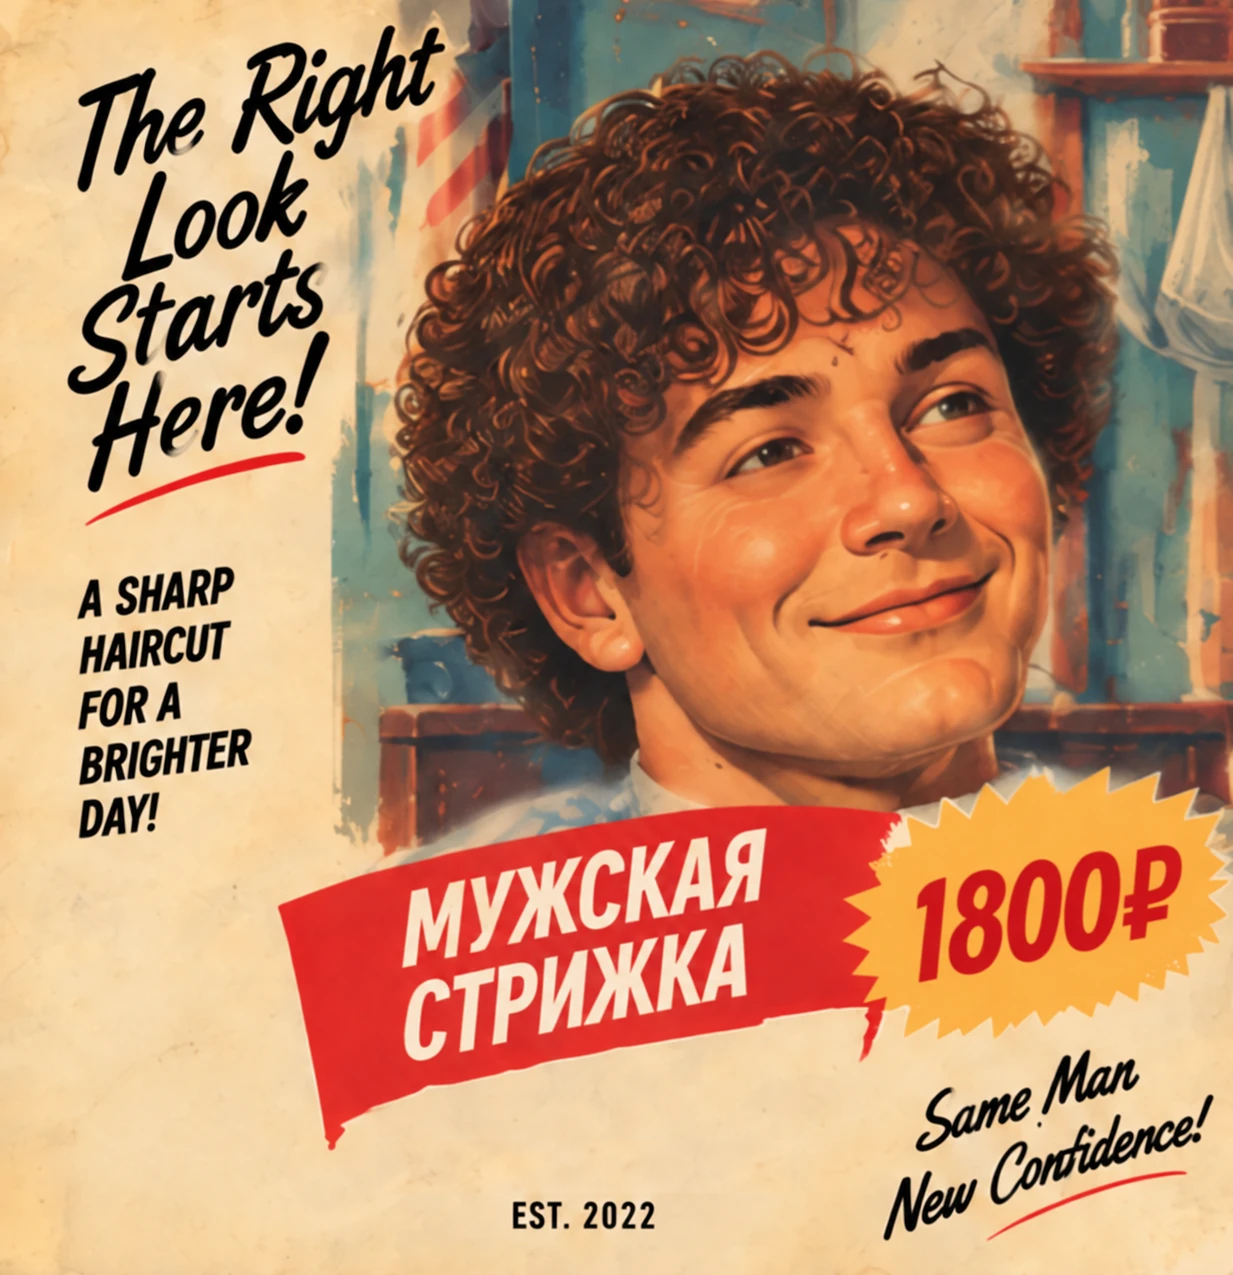
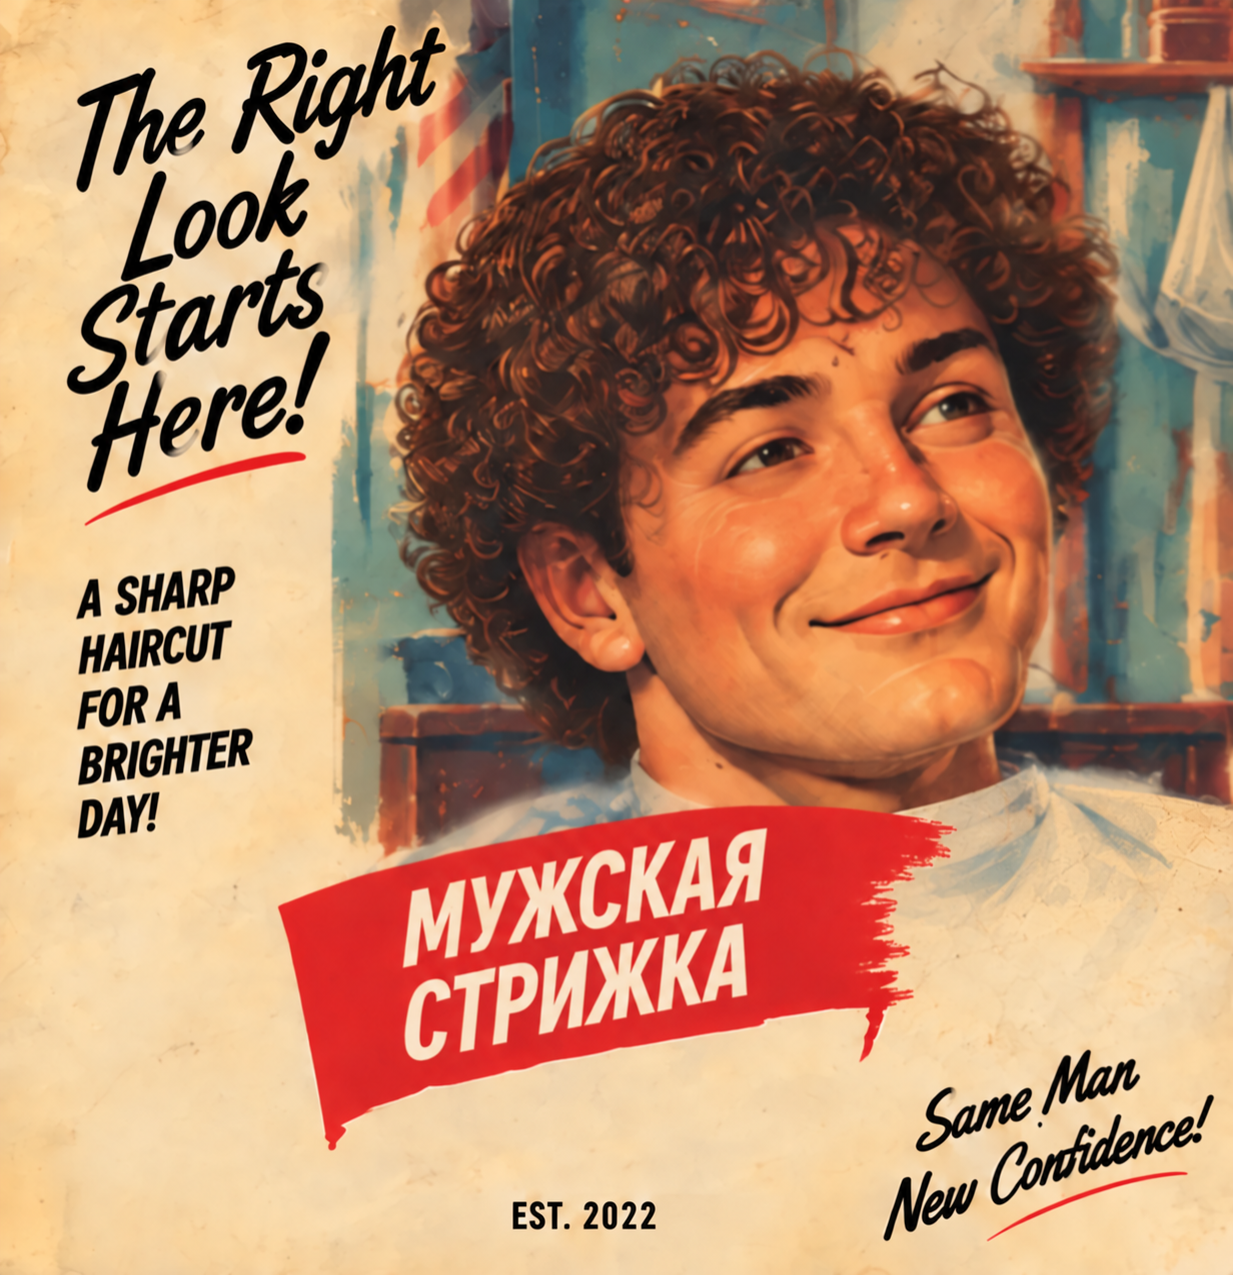
Remove service prices and refresh poster images

diff --git a/modules/offers/services.ts b/modules/offers/services.ts
@@ -1,3 +1,9 @@
+import haircutPoster from '@/public/brand51/client/haircut-framed.webp'
+import comfortHaircutPoster from '@/public/brand51/client/comfort-framed.webp'
+import businessHaircutPoster from '@/public/brand51/client/business-framed.webp'
+import kidsHaircutPoster from '@/public/brand51/client/kids.webp'
+import shavePoster from '@/public/brand51/client/shave-framed.webp'
+import waxPoster from '@/public/brand51/client/wax-framed.webp'
 import type { ServiceOffer } from './types'
 
 export const services: readonly ServiceOffer[] = [
@@ -7,7 +13,7 @@ export const services: readonly ServiceOffer[] = [
 		priceRub: 1800,
 		description: 'Мужская стрижка в «Штате 51».',
 		poster: {
-			src: '/brand51/client/haircut-framed.webp',
+			src: haircutPoster,
 			width: 1233,
 			height: 1275,
 			alt: 'Ретроафиша мужской стрижки',
@@ -20,7 +26,7 @@ export const services: readonly ServiceOffer[] = [
 		description:
 			'Мужская стрижка, удаление воском волос из носа и межбровья. Бесплатная корректировка стрижки в течение 14 дней.',
 		poster: {
-			src: '/brand51/client/comfort-framed.webp',
+			src: comfortHaircutPoster,
 			width: 1224,
 			height: 1285,
 			alt: 'Ретроафиша мужской стрижки «Комфорт»',
@@ -32,7 +38,7 @@ export const services: readonly ServiceOffer[] = [
 		priceRub: 3200,
 		description: 'Мужская стрижка и антивозрастной уход EGIA.',
 		poster: {
-			src: '/brand51/client/business-framed.webp',
+			src: businessHaircutPoster,
 			width: 1254,
 			height: 1254,
 			alt: 'Ретроафиша мужской стрижки «Бизнес» с уходом EGIA',
@@ -44,7 +50,7 @@ export const services: readonly ServiceOffer[] = [
 		priceRub: 1400,
 		description: 'Для детей до 14 лет.',
 		poster: {
-			src: '/brand51/client/kids.webp',
+			src: kidsHaircutPoster,
 			width: 1254,
 			height: 1254,
 			alt: 'Ретроафиша детской стрижки до 14 лет',
@@ -56,7 +62,7 @@ export const services: readonly ServiceOffer[] = [
 		priceRub: 1400,
 		description: 'Бритьё головы или лица — на ваш выбор.',
 		poster: {
-			src: '/brand51/client/shave-framed.webp',
+			src: shavePoster,
 			width: 1240,
 			height: 1269,
 			alt: 'Ретроафиша бритья головы или лица',
@@ -68,7 +74,7 @@ export const services: readonly ServiceOffer[] = [
 		priceRub: 300,
 		description: 'Удаление волос из носа и межбровья.',
 		poster: {
-			src: '/brand51/client/wax-framed.webp',
+			src: waxPoster,
 			width: 1254,
 			height: 1254,
 			alt: 'Ретроафиша удаления волос воском',

diff --git a/components/shared/telegram.tsx b/components/shared/telegram.tsx
@@ -1,5 +1,6 @@
 import Link from 'next/link'
 import Image from 'next/image'
+import telegramIllustration from '@/public/brand51/generated/telegram-illustration.webp'
 import { ExternalLink, Send } from 'lucide-react'
 import { Badge } from '@/components/ui/badge'
 import { Button } from '@/components/ui/button'
@@ -30,8 +31,8 @@ export function Telegram({ className }: Props) {
 				</Badge>
 				<div className={styles.artwork}>
 					<Image
-						src='/brand51/generated/telegram-illustration.webp'
-						alt='Газетчик у барбершопа держит газету «Штат 51 — новости».'
+						src={telegramIllustration}
+						alt='Газетчик у барбершопа держит газету «Штат 51 — новости», а под короной на вывеске написано «СИЛА».'
 						width={1254}
 						height={1254}
 						sizes='(min-width: 1152px) 280px, (min-width: 768px) 25vw, (min-width: 480px) 420px, calc(100vw - 48px)'

diff --git a/modules/offers/promotions.ts b/modules/offers/promotions.ts
@@ -1,3 +1,4 @@
+import firstVisitPoster from '@/public/brand51/client/first-visit.webp'
 import type { PromotionOffer } from './types'
 import { promotionTopFrames } from './poster-frames'
 
@@ -8,7 +9,7 @@ export const promotions: readonly PromotionOffer[] = [
 		discountPercent: 20,
 		conditions: ['На любую услугу из нашего прайса.', 'Только для новых клиентов.'],
 		poster: {
-			src: '/brand51/client/first-visit.webp', width: 1254, height: 1254,
+			src: firstVisitPoster, width: 1254, height: 1254,
 			alt: 'Первый визит: скидка 20 процентов на любую услугу для новых клиентов',
 		},
 	},

diff --git a/modules/offers/types.ts b/modules/offers/types.ts
@@ -1,3 +1,5 @@
+import type { StaticImageData } from 'next/image'
+
 export interface PosterTopFrame {
 	left: number
 	right: number
@@ -7,7 +9,7 @@ export interface PosterTopFrame {
 }
 
 export interface PosterAsset {
-	src: string
+	src: string | StaticImageData
 	width: number
 	height: number
 	alt: string
@@ -40,7 +42,7 @@ export interface PriceRow {
 export interface OfferCardContent {
 	id: string
 	title: string
-	label: string
+	label?: string
 	description: string
 	poster: PosterAsset
 	prices?: readonly PriceRow[]

diff --git a/modules/offers/sections.tsx b/modules/offers/sections.tsx
@@ -9,7 +9,7 @@ export function ServicesSection() {
 			aria-labelledby='services-title'
 			className='flex scroll-mt-6 flex-col gap-8'
 		>
-			<SectionHeading id='services-title' number='01' title='Услуги и цены' />
+			<SectionHeading id='services-title' number='01' title='Услуги' />
 			<OfferGrid offers={getServiceCards()} />
 		</section>
 	)

diff --git a/modules/offers/ui/offer-card.tsx b/modules/offers/ui/offer-card.tsx
@@ -18,7 +18,8 @@ export function OfferCard({ offer }: { offer: OfferCardContent }) {
 			<CardHeader className='sr-only'>
 				<CardTitle>
 					<h3>
-						{offer.title} · {offer.label}
+						{offer.title}
+						{offer.label && <> · {offer.label}</>}
 					</h3>
 				</CardTitle>
 				<CardDescription>{offer.description}</CardDescription>

diff --git a/modules/offers/service.ts b/modules/offers/service.ts
@@ -18,7 +18,6 @@ export function getServiceCards(): OfferCardContent[] {
 	return services.flatMap(service => service.poster ? [{
 		id: service.id,
 		title: service.title,
-		label: formatRubles(service.priceRub),
 		description: service.description,
 		poster: service.poster,
 	}] : [])

diff --git a/docs/poster-assets.md b/docs/poster-assets.md
@@ -29,6 +29,18 @@
 Вариант «Сын + сын» с пальмами (19_54_43) исключён по выбору заказчика.
 На исходной афише первого визита цена бизнес-стрижки — 2560 ₽.
 
+## Обновление изображений 7 октября 2026 года
+
+На шести афишах услуг удалены стоимость и жёлтые ценники. На их месте
+восстановлены фон и края красных лент; названия услуг и условия сохранены.
+В доступных подписях карточек стоимость тоже убрана, раздел называется «Услуги».
+Афиша первого визита и иллюстрация Telegram заменены файлами заказчика.
+
+Эти восемь изображений подключены через статические импорты. Next.js включает
+хеш содержимого в URL, поэтому при изменении WebP запрашивается новая версия,
+а серверный кеш оптимизатора не возвращает прежнее изображение по старому адресу.
+Для production после изменения файлов нужна новая сборка приложения.
+
 ## Фоновая текстура
 
 `warm-paper-texture.webp` создана встроенным инструментом imagegen и конвертирована
